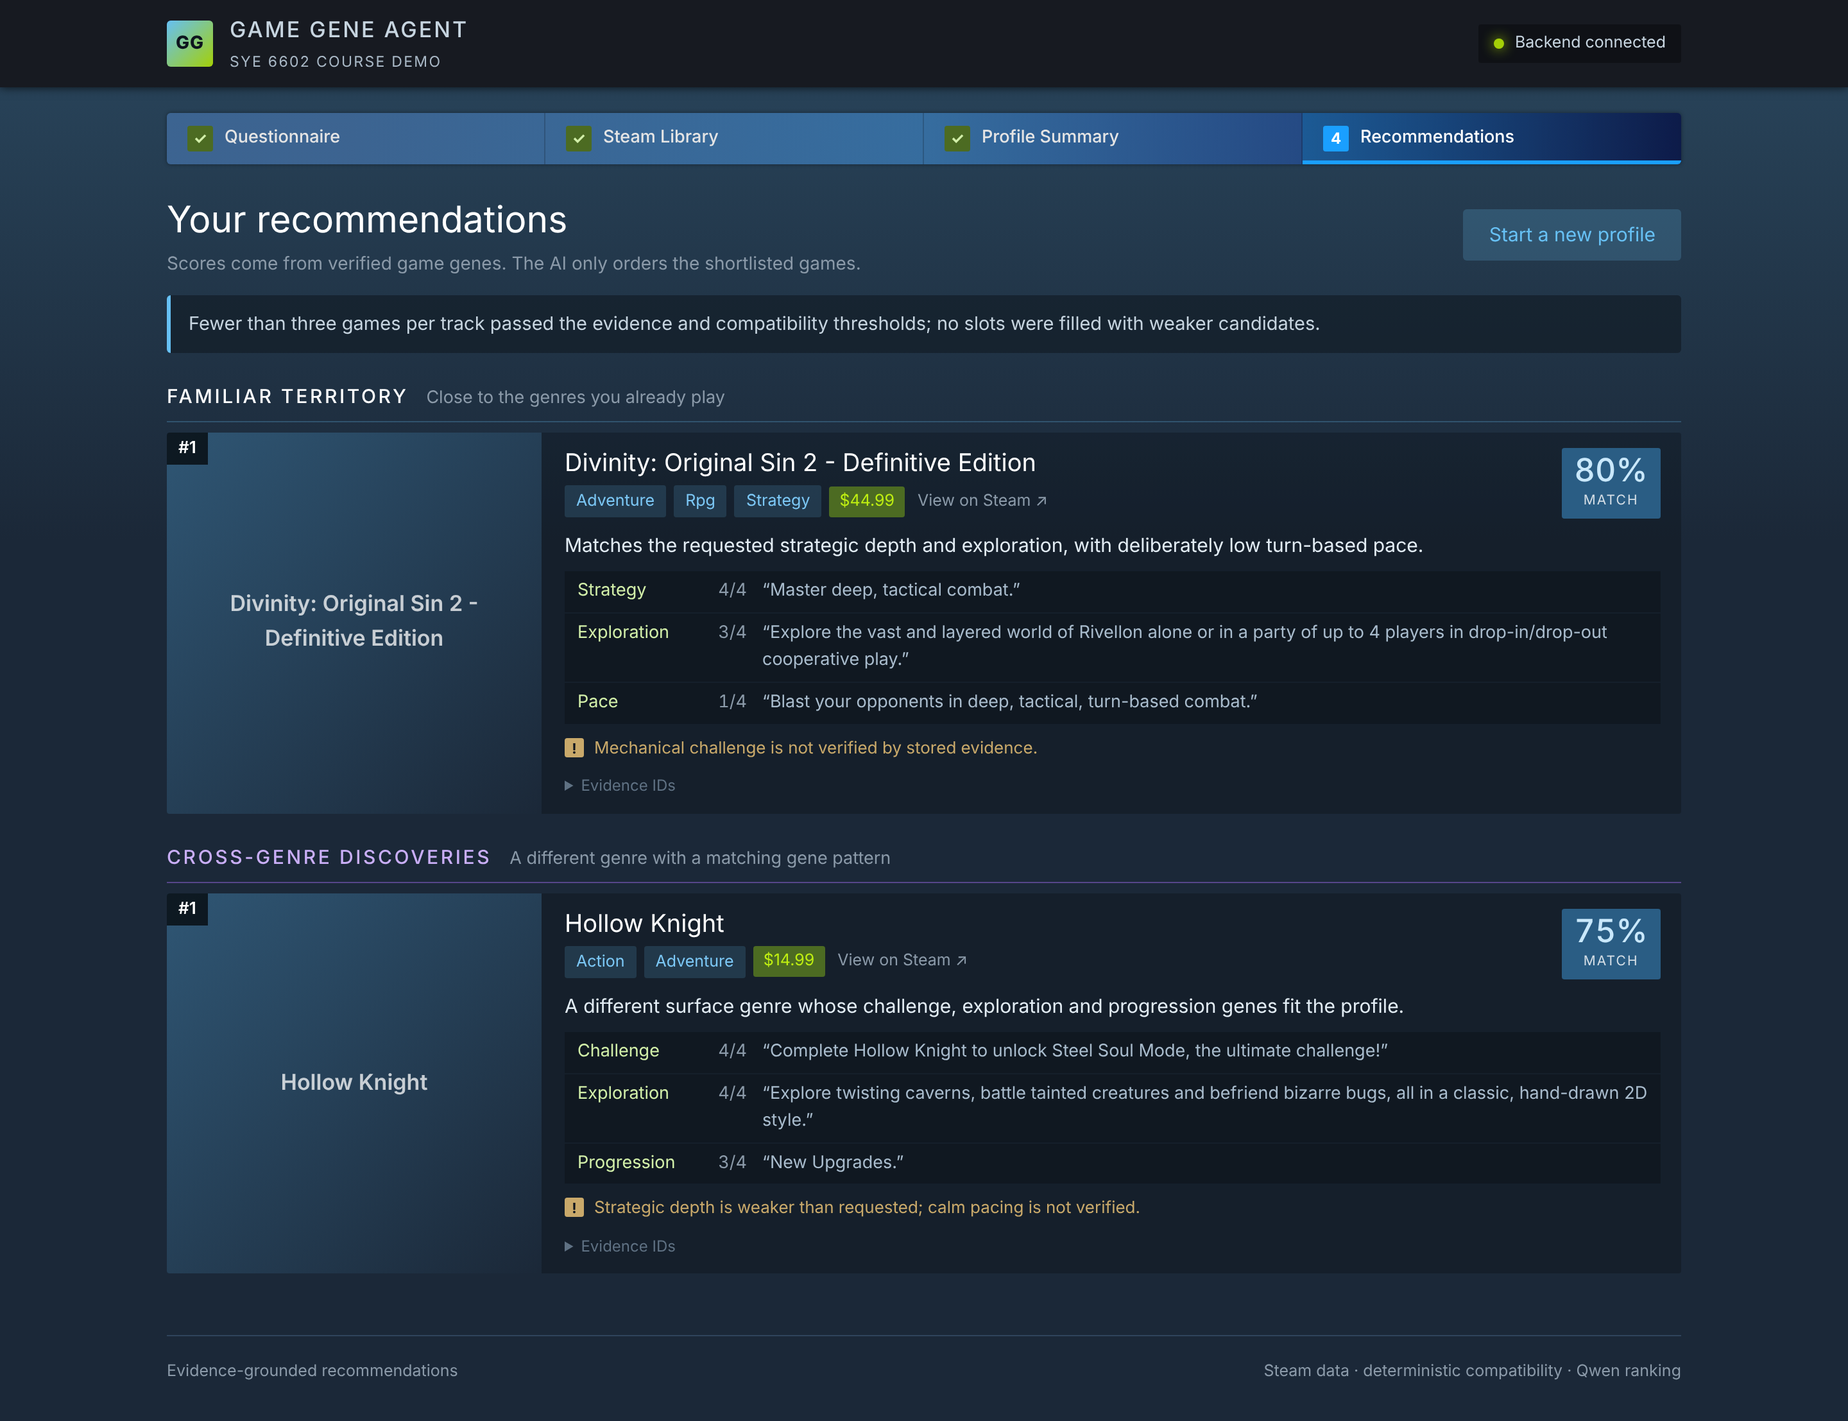
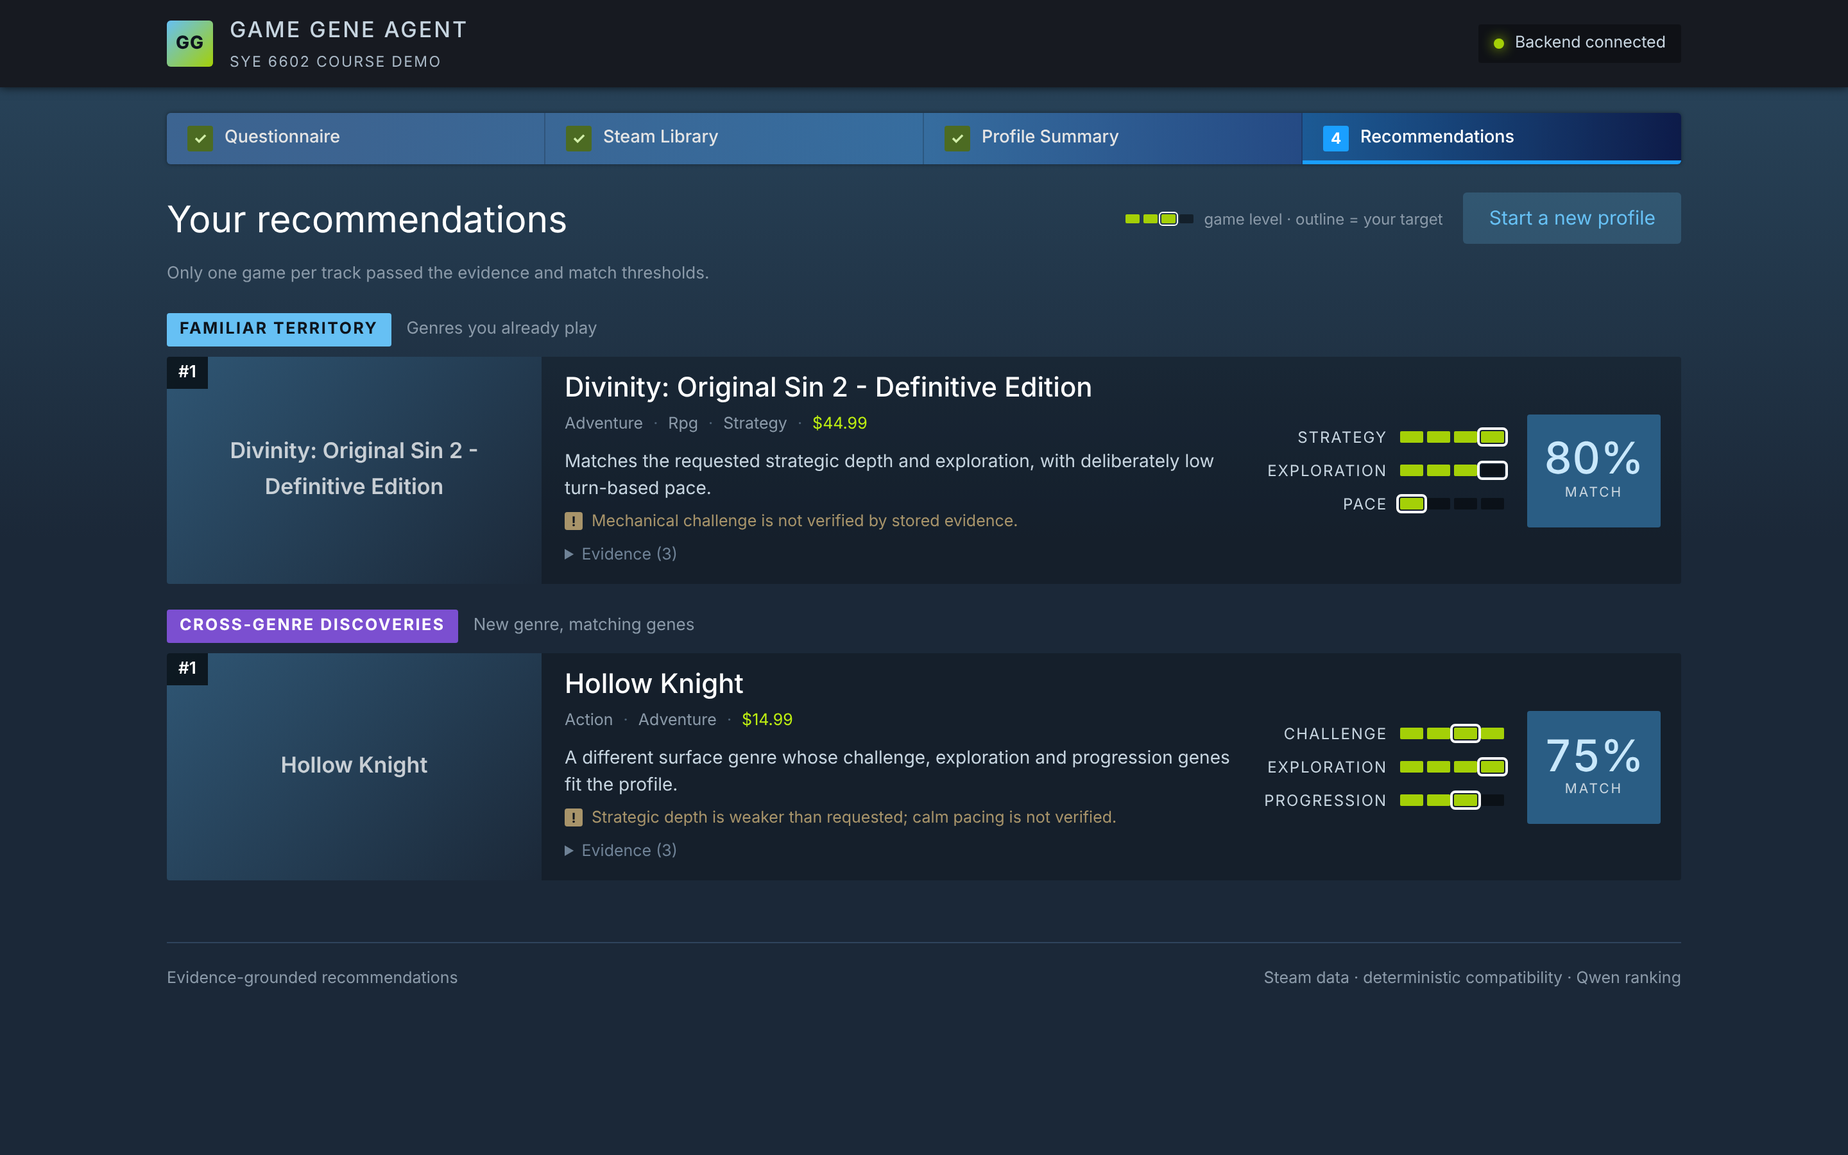
feat(ui): visual-first recommendation rows
Lead with the capsule, name and a large match block; show matched genes as
level pips against the player's target; clamp the reason to two lines; keep
quotes and evidence IDs behind one disclosure. Deck and script updated.

diff --git a/frontend/src/styles.css b/frontend/src/styles.css
@@ -164,53 +164,60 @@ a { color: var(--blue); }
 .profile-facts dd { margin: 0; }
 .tag-plain { color: var(--text); background: rgba(255, 255, 255, .08); }
 
-/* results: one compact header, then store-style rows. Reading order per row:
-   name -> match -> why -> the evidence itself -> one quiet note. */
-.results-hero { display: flex; align-items: center; justify-content: space-between; gap: 20px; flex-wrap: wrap; padding: 2px 0 12px; }
-.results-hero h1 { margin: 0 0 2px; font-size: clamp(1.5rem, 2.4vw, 1.9rem); font-weight: 400; }
-.results-hero p { margin: 0; color: var(--dim); font-size: 14px; }
-.results-actions { display: flex; align-items: center; gap: 10px; }
+/* results. Three reading levels per row:
+   1 the game (capsule, name) and its match score, 2 the gene pips, 3 one quiet line of text.
+   Quotes and IDs stay behind a disclosure. */
+.results-hero { display: flex; align-items: center; justify-content: space-between; gap: 20px; flex-wrap: wrap; padding: 2px 0 10px; }
+.results-hero h1 { margin: 0; font-size: clamp(1.5rem, 2.4vw, 1.9rem); font-weight: 400; }
+.results-actions { display: flex; align-items: center; gap: 16px; flex-wrap: wrap; }
+.pip-legend { display: flex; align-items: center; gap: 8px; color: var(--dim); font-size: 12px; }
 .result-status { padding: 4px 11px; border-radius: 2px; color: var(--ink); font-size: 12.5px; font-weight: 600; background: var(--gold); }
 .result-status.status-failed { color: var(--white); background: var(--red); }
-.track-section { margin-top: 22px; }
-.track-heading { display: flex; align-items: baseline; gap: 14px; margin-bottom: 8px; padding-bottom: 7px; border-bottom: 1px solid rgba(103, 193, 245, .25); }
-.track-heading h2 { margin: 0; font-size: 15px; font-weight: 500; letter-spacing: .12em; text-transform: uppercase; }
-.track-heading p { margin: 0; color: var(--dim); font-size: 13.5px; }
-.track-section.track-cross .track-heading { border-bottom-color: rgba(160, 107, 240, .45); }
-.track-section.track-cross .track-heading h2 { color: #c9aef7; }
+.results-note { margin: 0 0 4px; color: var(--dim); font-size: 13px; }
+.track-section { margin-top: 20px; }
+.track-heading { display: flex; align-items: baseline; gap: 12px; margin-bottom: 8px; }
+.track-heading h2 { margin: 0; padding: 3px 10px; border-radius: 2px; color: var(--ink); font-size: 12.5px; font-weight: 700; letter-spacing: .1em; text-transform: uppercase; background: var(--blue); }
+.track-section.track-cross .track-heading h2 { color: var(--white); background: #7b4fd0; }
+.track-heading p { margin: 0; color: var(--dim); font-size: 13px; }
 .recommendation-list { display: grid; gap: 6px; }
-.recommendation-card { display: grid; grid-template-columns: minmax(220px, 292px) 1fr; overflow: hidden; border-radius: 2px; background: rgba(0, 0, 0, .22); transition: background .15s; }
+.recommendation-card { display: grid; grid-template-columns: 292px minmax(0, 1fr) auto; align-items: stretch; overflow: hidden; border-radius: 2px; background: rgba(0, 0, 0, .22); transition: background .15s; }
 .recommendation-card:hover { background: linear-gradient(90deg, rgba(103, 193, 245, .2) 0%, rgba(0, 0, 0, .22) 80%); }
 .capsule { position: relative; display: block; min-height: 136px; background: linear-gradient(135deg, #2f5674, var(--bg)); }
 .capsule-name { position: absolute; inset: 0; display: grid; place-items: center; padding: 0 14px; color: rgba(255, 255, 255, .75); font-size: 17px; font-weight: 600; text-align: center; }
 .capsule-image { position: absolute; inset: 0; background: center / cover no-repeat; }
 .recommendation-rank { position: absolute; left: 0; top: 0; padding: 2px 9px; color: var(--white); font-size: 13px; font-weight: 600; background: rgba(0, 0, 0, .7); }
-.recommendation-content { display: flex; flex-direction: column; gap: 9px; min-width: 0; padding: 12px 16px 12px 18px; }
-.recommendation-title { display: flex; justify-content: space-between; align-items: flex-start; gap: 16px; }
-.recommendation-title h3 { margin: 0 0 5px; font-size: 19px; font-weight: 400; line-height: 1.25; }
-.game-meta { display: flex; flex-wrap: wrap; align-items: center; gap: 6px; margin: 0; font-size: 12.5px; }
-.price { padding: 2px 8px; border-radius: 2px; color: #beee11; background: var(--green-bg); }
-.store-link { margin-left: 4px; color: var(--dim); text-decoration: none; }
-.store-link:hover { color: var(--white); }
-.compatibility { flex: none; display: grid; justify-items: center; min-width: 76px; padding: 4px 10px 5px; border-radius: 2px; background: #2a5d84; }
+.recommendation-content { display: flex; flex-direction: column; justify-content: center; gap: 6px; min-width: 0; padding: 12px 18px; }
+.recommendation-content h3 { margin: 0; font-size: 21px; font-weight: 500; line-height: 1.2; }
+.game-meta { display: flex; flex-wrap: wrap; align-items: center; gap: 0 8px; margin: 0; color: var(--dim); font-size: 12.5px; }
+.game-meta span + span::before { content: "·"; margin-right: 8px; color: #4f6377; }
+.game-meta .price { color: #beee11; }
+.ranking-reason { display: -webkit-box; -webkit-box-orient: vertical; -webkit-line-clamp: 2; overflow: hidden; margin: 2px 0 0; color: var(--text); font-size: 14px; line-height: 1.5; }
+.caution { display: flex; align-items: baseline; gap: 7px; margin: 0; color: #a8946a; font-size: 12.5px; }
+.caution span { flex: none; display: grid; place-items: center; width: 14px; height: 14px; border-radius: 2px; color: var(--ink); font-size: 10.5px; font-weight: 700; background: #a8946a; }
+.evidence-details { color: #6f8296; font-size: 12.5px; }
+.evidence-details summary { cursor: pointer; width: fit-content; }
+.evidence-details summary:hover { color: var(--blue); }
+.evidence-details ul { display: grid; gap: 4px; margin: 6px 0 2px; padding: 0; list-style: none; }
+.evidence-details li { display: flex; flex-wrap: wrap; align-items: baseline; gap: 8px; }
+.evidence-details q { color: #a9bccd; font-size: 13px; quotes: "“" "”"; }
+.evidence-details code { padding: 0 6px; border-radius: 2px; color: #5f7183; font-size: 11px; background: rgba(0, 0, 0, .3); }
+.recommendation-side { display: flex; align-items: center; gap: 18px; padding: 12px 16px 12px 8px; }
+.compatibility { order: 2; display: grid; justify-items: center; align-content: center; width: 104px; height: 88px; border-radius: 2px; background: #2a5d84; }
 .compatibility.high { background: var(--green-bg); }
 .compatibility.low { background: #4f4a3a; }
-.compatibility strong { color: #c9e8fc; font-size: 25px; font-weight: 500; line-height: 1.15; font-variant-numeric: tabular-nums; }
+.compatibility strong { color: #c9e8fc; font-size: 34px; font-weight: 500; line-height: 1.05; font-variant-numeric: tabular-nums; }
 .compatibility.high strong { color: #beee11; }
 .compatibility.low strong { color: #e8c57c; }
-.compatibility span { color: rgba(255, 255, 255, .8); font-size: 10.5px; letter-spacing: .1em; text-transform: uppercase; }
-.ranking-reason { margin: 0; color: #e3edf5; font-size: 15px; line-height: 1.55; }
-.evidence-list { display: grid; gap: 1px; margin: 0; padding: 0; list-style: none; }
-.evidence-list li { display: grid; grid-template-columns: 132px 1fr; align-items: baseline; gap: 12px; padding: 5px 10px; background: rgba(0, 0, 0, .22); font-size: 13.5px; }
-.evidence-gene { display: flex; justify-content: space-between; gap: 8px; color: #d2efa9; }
-.evidence-gene b { color: var(--dim); font-weight: 400; font-variant-numeric: tabular-nums; }
-.evidence-list q { color: #a9bccd; quotes: "“" "”"; }
-.caution { display: flex; align-items: baseline; gap: 8px; margin: 0; color: #c9a96a; font-size: 13px; }
-.caution span { flex: none; display: grid; place-items: center; width: 15px; height: 15px; border-radius: 2px; color: var(--ink); font-size: 11px; font-weight: 700; background: #c9a96a; }
-.recommendation-card details { color: #5f7183; font-size: 12px; }
-.recommendation-card summary { cursor: pointer; width: fit-content; }
-.recommendation-card details ul { display: flex; flex-wrap: wrap; gap: 6px; margin: 6px 0 0; padding: 0; list-style: none; }
-.recommendation-card code { padding: 1px 7px; border-radius: 2px; color: var(--dim); font-size: 12px; background: rgba(0, 0, 0, .35); }
+.compatibility span { color: rgba(255, 255, 255, .75); font-size: 10.5px; letter-spacing: .14em; text-transform: uppercase; }
+.gene-tiles { display: grid; gap: 7px; margin: 0; padding: 0; list-style: none; }
+.gene-tiles li { display: grid; grid-template-columns: 96px auto; align-items: center; gap: 10px; }
+.gene-tile-name { color: var(--text); font-size: 12px; letter-spacing: .08em; text-transform: uppercase; text-align: right; }
+.pips { display: inline-flex; gap: 3px; }
+.pips i { width: 18px; height: 9px; border-radius: 1px; background: rgba(0, 0, 0, .45); }
+.pips i.on { background: var(--green); }
+.pips i.you { outline: 2px solid var(--white); outline-offset: 1px; }
+.pip-legend .pips i { width: 11px; height: 7px; }
+.pip-legend .pips i.you { outline-width: 1.5px; }
 
 footer { display: flex; justify-content: space-between; width: min(1180px, calc(100% - 48px)); margin: 0 auto; padding: 18px 0 28px; border-top: 1px solid var(--line); color: var(--dim); font-size: 12.5px; }
 .splash { min-height: 100vh; display: grid; place-items: center; align-content: center; gap: 14px; padding: 24px; color: var(--dim); background: radial-gradient(circle at center, #2a475e, var(--bg) 60%); }
@@ -225,8 +232,21 @@ footer { display: flex; justify-content: space-between; width: min(1180px, calc(
   .summary-columns { grid-template-columns: 1fr 1fr; }
 }
 
+@media (max-width: 1020px) {
+  .recommendation-card { grid-template-columns: 220px minmax(0, 1fr); }
+  .recommendation-side { grid-column: 1 / -1; justify-content: space-between; padding: 0 16px 12px 16px; }
+  .gene-tiles { grid-auto-flow: column; gap: 14px; }
+  .gene-tiles li { grid-template-columns: auto; justify-items: start; gap: 4px; }
+  .gene-tile-name { text-align: left; }
+  .compatibility { width: 88px; height: 64px; }
+  .compatibility strong { font-size: 26px; }
+}
+
 @media (max-width: 760px) {
   .recommendation-card { grid-template-columns: 1fr; }
+  .gene-tiles { grid-auto-flow: row; }
+  .gene-tiles li { grid-template-columns: 96px auto; }
+  .pip-legend { display: none; }
   .step-indicator li { justify-content: center; padding: 9px 6px; }
   .step-indicator small { display: none; }
 }

diff --git a/frontend/src/steps/RecommendationsStep.tsx b/frontend/src/steps/RecommendationsStep.tsx
@@ -1,10 +1,13 @@
 import { useEffect, useState } from "react";
 
 import { getCatalogGame } from "../api/client";
-import type { CatalogGame, GeneId, RecommendationItem, RecommendationRun } from "../api/types";
+import type { CatalogGame, GeneId, PlayerProfile, RecommendationItem, RecommendationRun } from "../api/types";
+
+type Targets = Partial<Record<GeneId, number>>;
 
 interface RecommendationsStepProps {
   recommendation: RecommendationRun;
+  profile?: PlayerProfile | null;
   onRestart: () => void;
 }
 
@@ -35,26 +38,44 @@ function useCatalogGames(appids: number[]) {
   return games;
 }
 
-function EvidenceList({ item, game }: { item: RecommendationItem; game?: CatalogGame }) {
-  const cited = new Set(item.evidence_ids);
-  const rows = item.matched_gene_ids.map((geneId: GeneId) => {
-    const gene = game?.genes.find((candidate) => candidate.gene_id === geneId);
-    const evidence = gene?.evidence.find((entry) => cited.has(entry.evidence_id)) ?? gene?.evidence[0];
-    return { geneId, level: gene?.level ?? null, quote: evidence?.quote_original ?? null };
-  });
+const LEVELS = [1, 2, 3, 4];
+
+/** One tile per matched gene: the game's level as filled pips, the player's target as a marker. */
+function GeneTiles({ item, game, targets }: { item: RecommendationItem; game?: CatalogGame; targets: Targets }) {
   return (
-    <ul className="evidence-list">
-      {rows.map((row) => (
-        <li key={row.geneId}>
-          <span className="evidence-gene">{titleCase(row.geneId)}{row.level !== null && <b>{row.level}/4</b>}</span>
-          {row.quote ? <q>{row.quote}</q> : <span className="muted">Evidence stored for this gene</span>}
-        </li>
-      ))}
+    <ul className="gene-tiles">
+      {item.matched_gene_ids.map((geneId: GeneId) => {
+        const level = game?.genes.find((candidate) => candidate.gene_id === geneId)?.level ?? null;
+        const target = targets[geneId];
+        return (
+          <li key={geneId} title={target === undefined ? undefined : `You want ${target} of 4`}>
+            <span className="gene-tile-name">{titleCase(geneId)}</span>
+            <span className="pips" aria-label={level === null ? "evidence stored" : `game level ${level} of 4`}>
+              {LEVELS.map((step) => <i key={step} className={`${level !== null && step <= level ? "on" : ""}${target !== undefined && step === Math.round(target) ? " you" : ""}`} />)}
+            </span>
+          </li>
+        );
+      })}
     </ul>
   );
 }
 
-function RecommendationCard({ item, game }: { item: RecommendationItem; game?: CatalogGame }) {
+function EvidenceDetails({ item, game }: { item: RecommendationItem; game?: CatalogGame }) {
+  const quotes = new Map<string, string>();
+  for (const gene of game?.genes ?? []) for (const entry of gene.evidence) quotes.set(entry.evidence_id, entry.quote_original);
+  return (
+    <details className="evidence-details">
+      <summary>Evidence ({item.evidence_ids.length})</summary>
+      <ul>
+        {item.evidence_ids.map((evidence) => (
+          <li key={evidence}>{quotes.has(evidence) && <q>{quotes.get(evidence)}</q>}<code>{evidence}</code></li>
+        ))}
+      </ul>
+    </details>
+  );
+}
+
+function RecommendationCard({ item, game, targets }: { item: RecommendationItem; game?: CatalogGame; targets: Targets }) {
   const percent = Math.round(item.compatibility_score * 100);
   const level = percent >= 82 ? "high" : percent >= 72 ? "mid" : "low";
   const storeUrl = `https://store.steampowered.com/app/${item.appid}/`;
@@ -68,50 +89,49 @@ function RecommendationCard({ item, game }: { item: RecommendationItem; game?: C
         <span className="recommendation-rank" title="Order chosen by the AI ranker">#{item.ai_rank}</span>
       </a>
       <div className="recommendation-content">
-        <div className="recommendation-title">
-          <div>
-            <h3>{item.name}</h3>
-            <p className="game-meta">
-              {game?.genres.map((genre) => <span className="tag" key={genre}>{titleCase(genre)}</span>)}
-              {price && <span className="price">{price}</span>}
-              <a className="store-link" href={storeUrl} target="_blank" rel="noopener noreferrer">View on Steam ↗</a>
-            </p>
-          </div>
-          <div className={`compatibility ${level}`}><strong>{percent}%</strong><span>match</span></div>
-        </div>
+        <h3>{item.name}</h3>
+        <p className="game-meta">
+          {game?.genres.map((genre) => <span key={genre}>{titleCase(genre)}</span>)}
+          {price && <span className="price">{price}</span>}
+        </p>
         <p className="ranking-reason">{item.ranking_reason}</p>
-        <EvidenceList item={item} game={game} />
         {item.caution && <p className="caution"><span aria-hidden="true">!</span>{item.caution}</p>}
-        <details><summary>Evidence IDs</summary><ul>{item.evidence_ids.map((evidence) => <li key={evidence}><code>{evidence}</code></li>)}</ul></details>
+        <EvidenceDetails item={item} game={game} />
+      </div>
+      <div className="recommendation-side">
+        <div className={`compatibility ${level}`}><strong>{percent}%</strong><span>match</span></div>
+        <GeneTiles item={item} game={game} targets={targets} />
       </div>
     </article>
   );
 }
 
-function TrackSection({ title, subtitle, items, kind, games }: { title: string; subtitle: string; items: RecommendationItem[]; kind: "same" | "cross"; games: Record<number, CatalogGame> }) {
+function TrackSection({ title, subtitle, items, kind, games, targets }: { title: string; subtitle: string; items: RecommendationItem[]; kind: "same" | "cross"; games: Record<number, CatalogGame>; targets: Targets }) {
   return (
     <section className={`track-section track-${kind}`}>
       <div className="track-heading"><h2>{title}</h2><p>{subtitle}</p></div>
-      {items.length ? <div className="recommendation-list">{items.map((item) => <RecommendationCard item={item} game={games[item.appid]} key={item.appid} />)}</div> : <div className="empty-state compact"><h3>No eligible match in this track</h3><p>Evidence or compatibility thresholds were not lowered to fill the list.</p></div>}
+      {items.length ? <div className="recommendation-list">{items.map((item) => <RecommendationCard item={item} game={games[item.appid]} targets={targets} key={item.appid} />)}</div> : <div className="empty-state compact"><h3>No eligible match in this track</h3><p>Evidence or compatibility thresholds were not lowered to fill the list.</p></div>}
     </section>
   );
 }
 
-export function RecommendationsStep({ recommendation, onRestart }: RecommendationsStepProps) {
+export function RecommendationsStep({ recommendation, profile, onRestart }: RecommendationsStepProps) {
   const all = [...recommendation.same_track, ...recommendation.cross_track];
   const games = useCatalogGames(all.map((item) => item.appid));
+  const targets: Targets = Object.fromEntries((profile?.gene_contributions ?? []).map((gene) => [gene.gene_id, gene.final_target]));
   return (
     <section className="results-panel" aria-labelledby="recommendations-title">
       <div className="results-hero">
-        <div><h1 id="recommendations-title">Your recommendations</h1><p>Scores come from verified game genes. The AI only orders the shortlisted games.</p></div>
+        <h1 id="recommendations-title">Your recommendations</h1>
         <div className="results-actions">
+          <span className="pip-legend"><span className="pips"><i className="on" /><i className="on" /><i className="on you" /><i /></span>game level · outline = your target</span>
           {recommendation.status !== "ok" && <span className={`result-status status-${recommendation.status}`}>{titleCase(recommendation.status)}</span>}
           <button className="button button-ghost" onClick={onRestart}>Start a new profile</button>
         </div>
       </div>
-      {recommendation.message && <div className="notice notice-info">{recommendation.message}</div>}
-      <TrackSection title="Familiar territory" subtitle="Close to the genres you already play" items={recommendation.same_track} kind="same" games={games} />
-      <TrackSection title="Cross-genre discoveries" subtitle="A different genre with a matching gene pattern" items={recommendation.cross_track} kind="cross" games={games} />
+      {recommendation.message && <p className="results-note">{recommendation.message}</p>}
+      <TrackSection title="Familiar territory" subtitle="Genres you already play" items={recommendation.same_track} kind="same" games={games} targets={targets} />
+      <TrackSection title="Cross-genre discoveries" subtitle="New genre, matching genes" items={recommendation.cross_track} kind="cross" games={games} targets={targets} />
     </section>
   );
 }

diff --git a/frontend/src/App.tsx b/frontend/src/App.tsx
@@ -176,7 +176,7 @@ function App() {
           />
         )}
         {step === 4 && recommendation && (
-          <RecommendationsStep recommendation={recommendation} onRestart={() => window.location.reload()} />
+          <RecommendationsStep recommendation={recommendation} profile={profile} onRestart={() => window.location.reload()} />
         )}
       </div>
 
